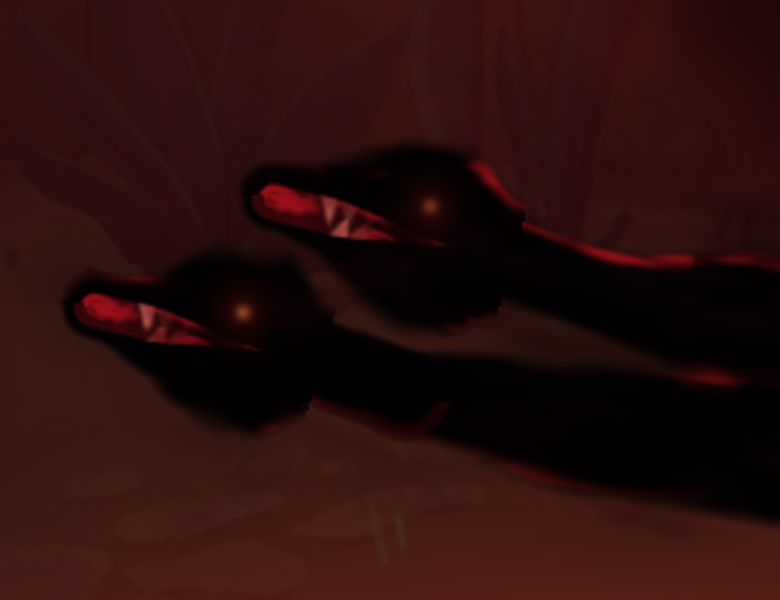
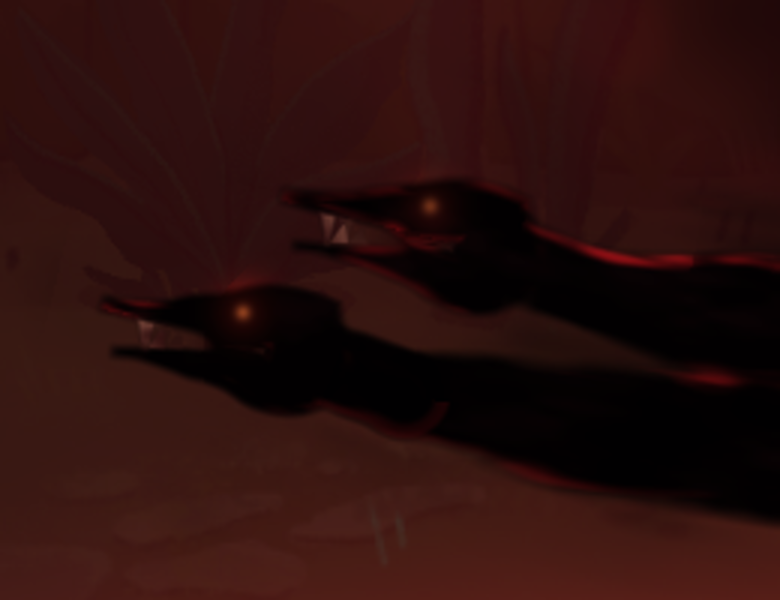
Serpent mouths redone with real jaws (user: the mouth looked messy, like a patch painted on the head). The head is now its own shape in head-local coordinates: a cranium joined to a tapering upper jaw with a blunt snout, and a shorter, thinner lower jaw hinged at the mouth corner and rotated open a 
Claude-Session: https://claude.ai/code/session_01KgS2yLiuGvw74uPNGT9TP3

Changed region(s): [[0.0615, 0.24, 0.6462, 0.75], [0.6462, 0.33, 0.6769, 0.39], [0.4, 0.66, 0.4308, 0.69]]

diff --git a/p5mod/src/Vfx/SerpentMantle.cs b/p5mod/src/Vfx/SerpentMantle.cs
@@ -53,6 +53,7 @@ float vn(vec2 p) { vec2 i = floor(p), f = fract(p); f = f * f * (3.0 - 2.0 * f);
 	return mix(mix(h21(i), h21(i + vec2(1, 0)), f.x), mix(h21(i + vec2(0, 1)), h21(i + vec2(1, 1)), f.x), f.y); }
 float fbm(vec2 p) { return vn(p) * 0.5 + vn(p * 2.03 + 5.1) * 0.3 + vn(p * 4.1 + 1.7) * 0.2; }
 float ease3(float x) { return 1.0 - pow(1.0 - clamp(x, 0.0, 1.0), 3.0); }
+float smin(float a, float b, float k) { float h = clamp(0.5 + 0.5 * (b - a) / k, 0.0, 1.0); return mix(b, a, h) - k * h * (1.0 - h); }
 
 // 粗细（s：0 尾 → 1 吻尖）：尾巴细、身体、脖子略收、头上平下宽的楔形
 const float HEAD0 = 0.871;          // 头从脊线的第 27 点（27/31）开始
@@ -128,35 +129,65 @@ void fragment() {
 		vec3 wc = vec3(0.03, 0.008, 0.012) + vec3(0.22, 0.02, 0.03) * smoothstep(0.72, 0.9, wn);
 		float a = clamp(dens + wisp * (1.0 - dens), 0.0, 1.0) * ba;
 		vec3 cc = mix(wc, c, dens / max(dens + wisp * (1.0 - dens), 1e-3));
-		// 嘴：微微张开——上下颚之间一道往吻尖张开的缝，里面透出暗红的光；四颗獠牙（上两颗朝下、下两颗朝上），
-		// 不画成三角形：一道道模糊、带暗红微光、边被烟吃掉的细痕，看起来像牙就行
-		if (bs > HEAD0) {
-			float hs = (bs - HEAD0) / (1.0 - HEAD0);
-			float xg = hs * 3.4;                                     // 沿头的长度（单位：脖子半宽 g）
-			float off = acr;                                          // 横向（+ 朝上）
+		// 头：两片真的颚（用户：嘴看起来乱糟糟，像涂上去的一块 → 头的剪影本身张开）。
+		// 局部坐标：x 沿头（0 = 头根，单位 = 脖子半宽 g），off 横向（+ 朝上）。上颚连着后脑；下颚绕嘴角的铰点往下转开 th，
+		// 两片颚中间是真的缺口：嘴角那头是暗红的口腔，往吻尖就是空的（看得见后面）。上下各一对模糊的烟獠牙长在唇边，跟着颚动。
+		vec2 hRoot = spine[j * 32 + 27].xy, hTip = spine[j * 32 + 31].xy;
+		vec2 hDir = normalize(hTip - hRoot + vec2(1e-4));
+		float x = dot(p - hRoot, hDir) / g;                       // 头自己的坐标：沿头（0 = 头根），单位 = 脖子半宽
+		float off = dot(p - hRoot, hup[j]) / g;                   // 横向（+ 朝上）
+		if (x > -0.6 && x < 4.0 && abs(off) < 2.2 && spine[j * 32 + 27].w > 0.001) {
+			float hw = smoothstep(-0.5, 0.15, x);                   // 脖子 → 头：平滑接过去，不切一刀
 			float mo = mouth[j];
-			float gw = (0.24 + 0.28 * max(mo, 0.0)) * smoothstep(0.22, 0.8, hs) * clamp(1.0 + mo * 6.0, 0.0, 1.0);   // 微张：从嘴角往吻尖张开一道口子
-			float lipU = -0.05 + gw, lipL = -0.05 - gw;
-			float inMouth = smoothstep(gw + 0.04, gw - 0.03, abs(off + 0.05)) * smoothstep(0.22, 0.34, hs);
-			vec3 mouthC = mix(vec3(0.03, 0.003, 0.008), vec3(0.2, 0.02, 0.03), smoothstep(0.3, 0.9, hs)) + vec3(0.4, 0.04, 0.06) * smoothstep(0.35, 0.8, fbm(vec2(xg * 2.0 - clock * 2.0, off * 4.0))) * (1.0 - dj);   // 口腔：嘴角深、往吻尖透出暗红
-			cc = mix(cc, mouthC, inMouth * dens);
-			float fang = 0.0;
-			// 四颗獠牙：上下各一对（左右两颗是立体的：近的一颗在前、亮、长，远的一颗略靠后、暗、短一点）
-			float fangFar = 0.0;
+			float th = mo < 0.0 ? max(0.0, 0.2 * (1.0 + mo * 5.0)) : 0.2 + 0.32 * mo;   // 平时微张；扑咬时张大；咬住时合上
+			vec2 H = vec2(0.85, -0.05);                                  // 嘴角（铰点）
+			// 上颚 + 后脑
+			// 后脑（椭圆）+ 上颚（往吻尖收的板），平滑连在一起
+			float dCran = (length(vec2((x - 0.55) / 1.05, (off + 0.02) / 0.9)) - 1.0) * 0.9;
+			// 上颚往吻尖收：上沿是一条往下弯的弧线，吻尖圆钝
+			float ht = mix(0.85, 0.2, pow(smoothstep(0.5, 3.3, x), 1.2));
+			float dUpper = max(max(off - ht, -0.05 - off), -x);
+			dUpper = smin(dUpper, x - 3.3, -0.12);                         // 吻尖圆钝地收住
+			float dU = smin(dCran, dUpper, 0.35);
+			// 下颚：把点转回下颚没张开时的位置再量
+			vec2 rq = vec2(x, off) - H;
+			float cs = cos(th), sn = sin(th);
+			vec2 lq = vec2(cs * rq.x - sn * rq.y, sn * rq.x + cs * rq.y) + H;
+			// 下颚：比上颚短、细，同样往前收成圆钝的尖
+			float hb = mix(0.6, 0.15, pow(smoothstep(0.9, 3.05, lq.x), 1.1));
+			float dL = max(max(lq.y + 0.05, (-0.05 - hb) - lq.y), H.x - 0.3 - lq.x);
+			dL = smin(dL, lq.x - 3.05, -0.1);
+			float dHead = smin(dU, dL, 0.12);
+			dHead = max(dHead, -max(max(-off - 0.05, off - (-0.05 - (x - H.x) * tan(th))), H.x + 0.05 - x) - 0.0);   // 两片颚中间挖空
+			float hd = smoothstep(0.08, -0.12, dHead + (nz - 0.5) * 0.12 + dj * (0.5 + nz * 1.6));
+			float emitH = smoothstep(-0.22, -0.02, dHead) * (1.0 - smoothstep(-0.02, 0.08, dHead)) * smoothstep(0.5, 0.82, flick) * 0.9 * lit;
+			vec3 headC = (inner + vec3(0.6, 0.05, 0.07) * emitH) * dim;
+			a = mix(a, clamp(hd + wisp * 0.3 * (1.0 - hd), 0.0, 1.0) * ba, hw);
+			dens = mix(dens, hd, hw);
+			cc = mix(cc, mix(wc, headC, hd), hw);
+			// 口腔：两片唇之间、靠嘴角那一段（往吻尖淡掉成空的）
+			float lowLip = -0.05 - (x - H.x) * tan(th);
+			float gap = step(H.x, x) * smoothstep(lowLip - 0.03, lowLip + 0.03, off) * smoothstep(-0.02, -0.08, off);
+			float throat = gap * smoothstep(H.x + 1.4, H.x + 0.2, x) * hw * (1.0 - dj);
+			vec3 throatC = mix(vec3(0.03, 0.003, 0.008), vec3(0.22, 0.02, 0.035), smoothstep(H.x, H.x + 1.2, x));
+			cc = mix(cc, throatC, throat * (1.0 - hd));
+			a = max(a, throat * 0.95 * ba);
+			// 獠牙：上下各一对（近的一颗在前、长、亮；远的一颗略靠后、短、暗），模糊的烟痕，不是三角形
+			float fang = 0.0, fangFar = 0.0;
 			for (int f = 0; f < 4; f++) {
 				bool upper = f < 2;
 				bool far_ = f == 1 || f == 3;
-				float fx = (upper ? (far_ ? 0.7 : 0.78) : (far_ ? 0.63 : 0.71)) * 3.4;
-				float L = (upper ? 0.4 : 0.3) * (far_ ? 0.78 : 1.0);
-				float t = upper ? (lipU - off) / L : (off - lipL) / L;   // 从唇往口子里伸
+				float fx = upper ? (far_ ? 2.35 : 2.6) : (far_ ? 2.15 : 2.4);
+				float L = (upper ? 0.42 : 0.32) * (far_ ? 0.78 : 1.0);
+				vec2 fq = upper ? vec2(x, off) : lq;                    // 下面那对跟着下颚
+				float t = upper ? (-0.05 - fq.y) / L : (fq.y + 0.05) / L;   // 从唇往缺口里伸
 				float w = 0.1 * (1.0 - clamp(t, 0.0, 1.0)) + 0.02;
-				float d = abs(xg - fx + 0.08 * t) - w + (fine - 0.5) * 0.06;
+				float d = abs(fq.x - fx + 0.08 * t) - w + (fine - 0.5) * 0.06;
 				float m = smoothstep(0.07, -0.05, d) * smoothstep(-0.15, 0.05, t) * smoothstep(1.1, 0.6, t);
 				if (far_) fangFar = max(fangFar, m); else fang = max(fang, m);
 			}
-			fang = max(fang, fangFar * 0.5);
-			fang *= smoothstep(0.3, 0.5, hs) * (1.0 - dj);
-			vec3 fangC = mix(vec3(0.22, 0.07, 0.07), vec3(0.6, 0.36, 0.3), smoothstep(0.3, 0.8, nz2)) + vec3(0.2, 0.02, 0.03) * fang;
+			fang = max(fang, fangFar * 0.5) * hw * (1.0 - dj) * smoothstep(0.02, 0.12, th);
+			vec3 fangC = mix(vec3(0.22, 0.07, 0.07), vec3(0.6, 0.36, 0.3), smoothstep(0.3, 0.8, nz2));
 			cc = mix(cc, fangC, fang * 0.85);
 			a = max(a, fang * 0.85 * ba);
 		}
